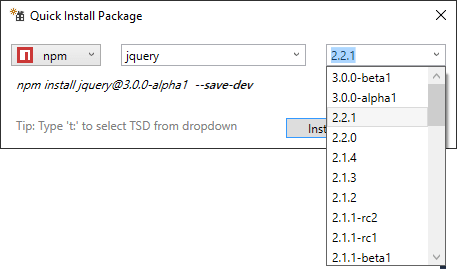
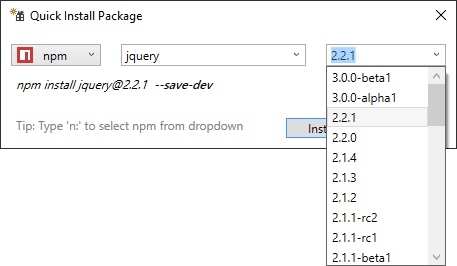
Fixed issue with version number updating arguments

diff --git a/src/Commands/InstallDialog.xaml b/src/Commands/InstallDialog.xaml
@@ -31,7 +31,7 @@
                 </ItemsPanelTemplate>
             </ComboBox.ItemsPanel>
         </ComboBox>
-        <ComboBox x:Name="cbVersion" Grid.Row="0" Grid.Column="2" HorizontalAlignment="Right" Margin="10,0" VerticalAlignment="Bottom" Width="120" SelectedIndex="0" IsEditable="True" IsEnabled="False" MaxDropDownHeight="200" SelectionChanged="cbVersion_SelectionChanged">
+        <ComboBox x:Name="cbVersion" Grid.Row="0" Grid.Column="2" HorizontalAlignment="Right" Margin="10,0" VerticalAlignment="Bottom" Width="120" SelectedIndex="0" IsEditable="True" IsEnabled="False" MaxDropDownHeight="200" TextBoxBase.TextChanged="cbVersion_TextChanged">
             <ComboBox.ItemsPanel>
                 <ItemsPanelTemplate>
                     <VirtualizingStackPanel/>

diff --git a/src/Commands/InstallDialog.xaml.cs b/src/Commands/InstallDialog.xaml.cs
@@ -190,7 +190,7 @@ namespace PackageInstaller
             SetInstallArguments();
         }
 
-        private void cbVersion_SelectionChanged(object sender, SelectionChangedEventArgs e)
+        private void cbVersion_TextChanged(object sender, RoutedEventArgs e)
         {
             SetInstallArguments();
         }

diff --git a/README.md b/README.md
@@ -54,7 +54,7 @@ that support it.
 ![Dialog Arguments](art/dialog-arguments.png)
 
 The default arguments for each package manager can be set in
-the Options dialog. 
+the Options dialog.
 
 ![Options](art/options.png)
 
@@ -91,11 +91,11 @@ shortcut `Shift+Alt+0`.
 Check out the [contribution guidelines](.github/CONTRIBUTING.md)
 if you want to contribute to this project.
 
-For cloning and building this project yourself, make sure 
+For cloning and building this project yourself, make sure
 to install the
 [Extensibility Tools 2015](https://visualstudiogallery.msdn.microsoft.com/ab39a092-1343-46e2-b0f1-6a3f91155aa6)
 extension for Visual Studio which enables some features
 used by this project.
 
 ## License
-[Apache 2.0](LICENSE) 
+[Apache 2.0](LICENSE)
